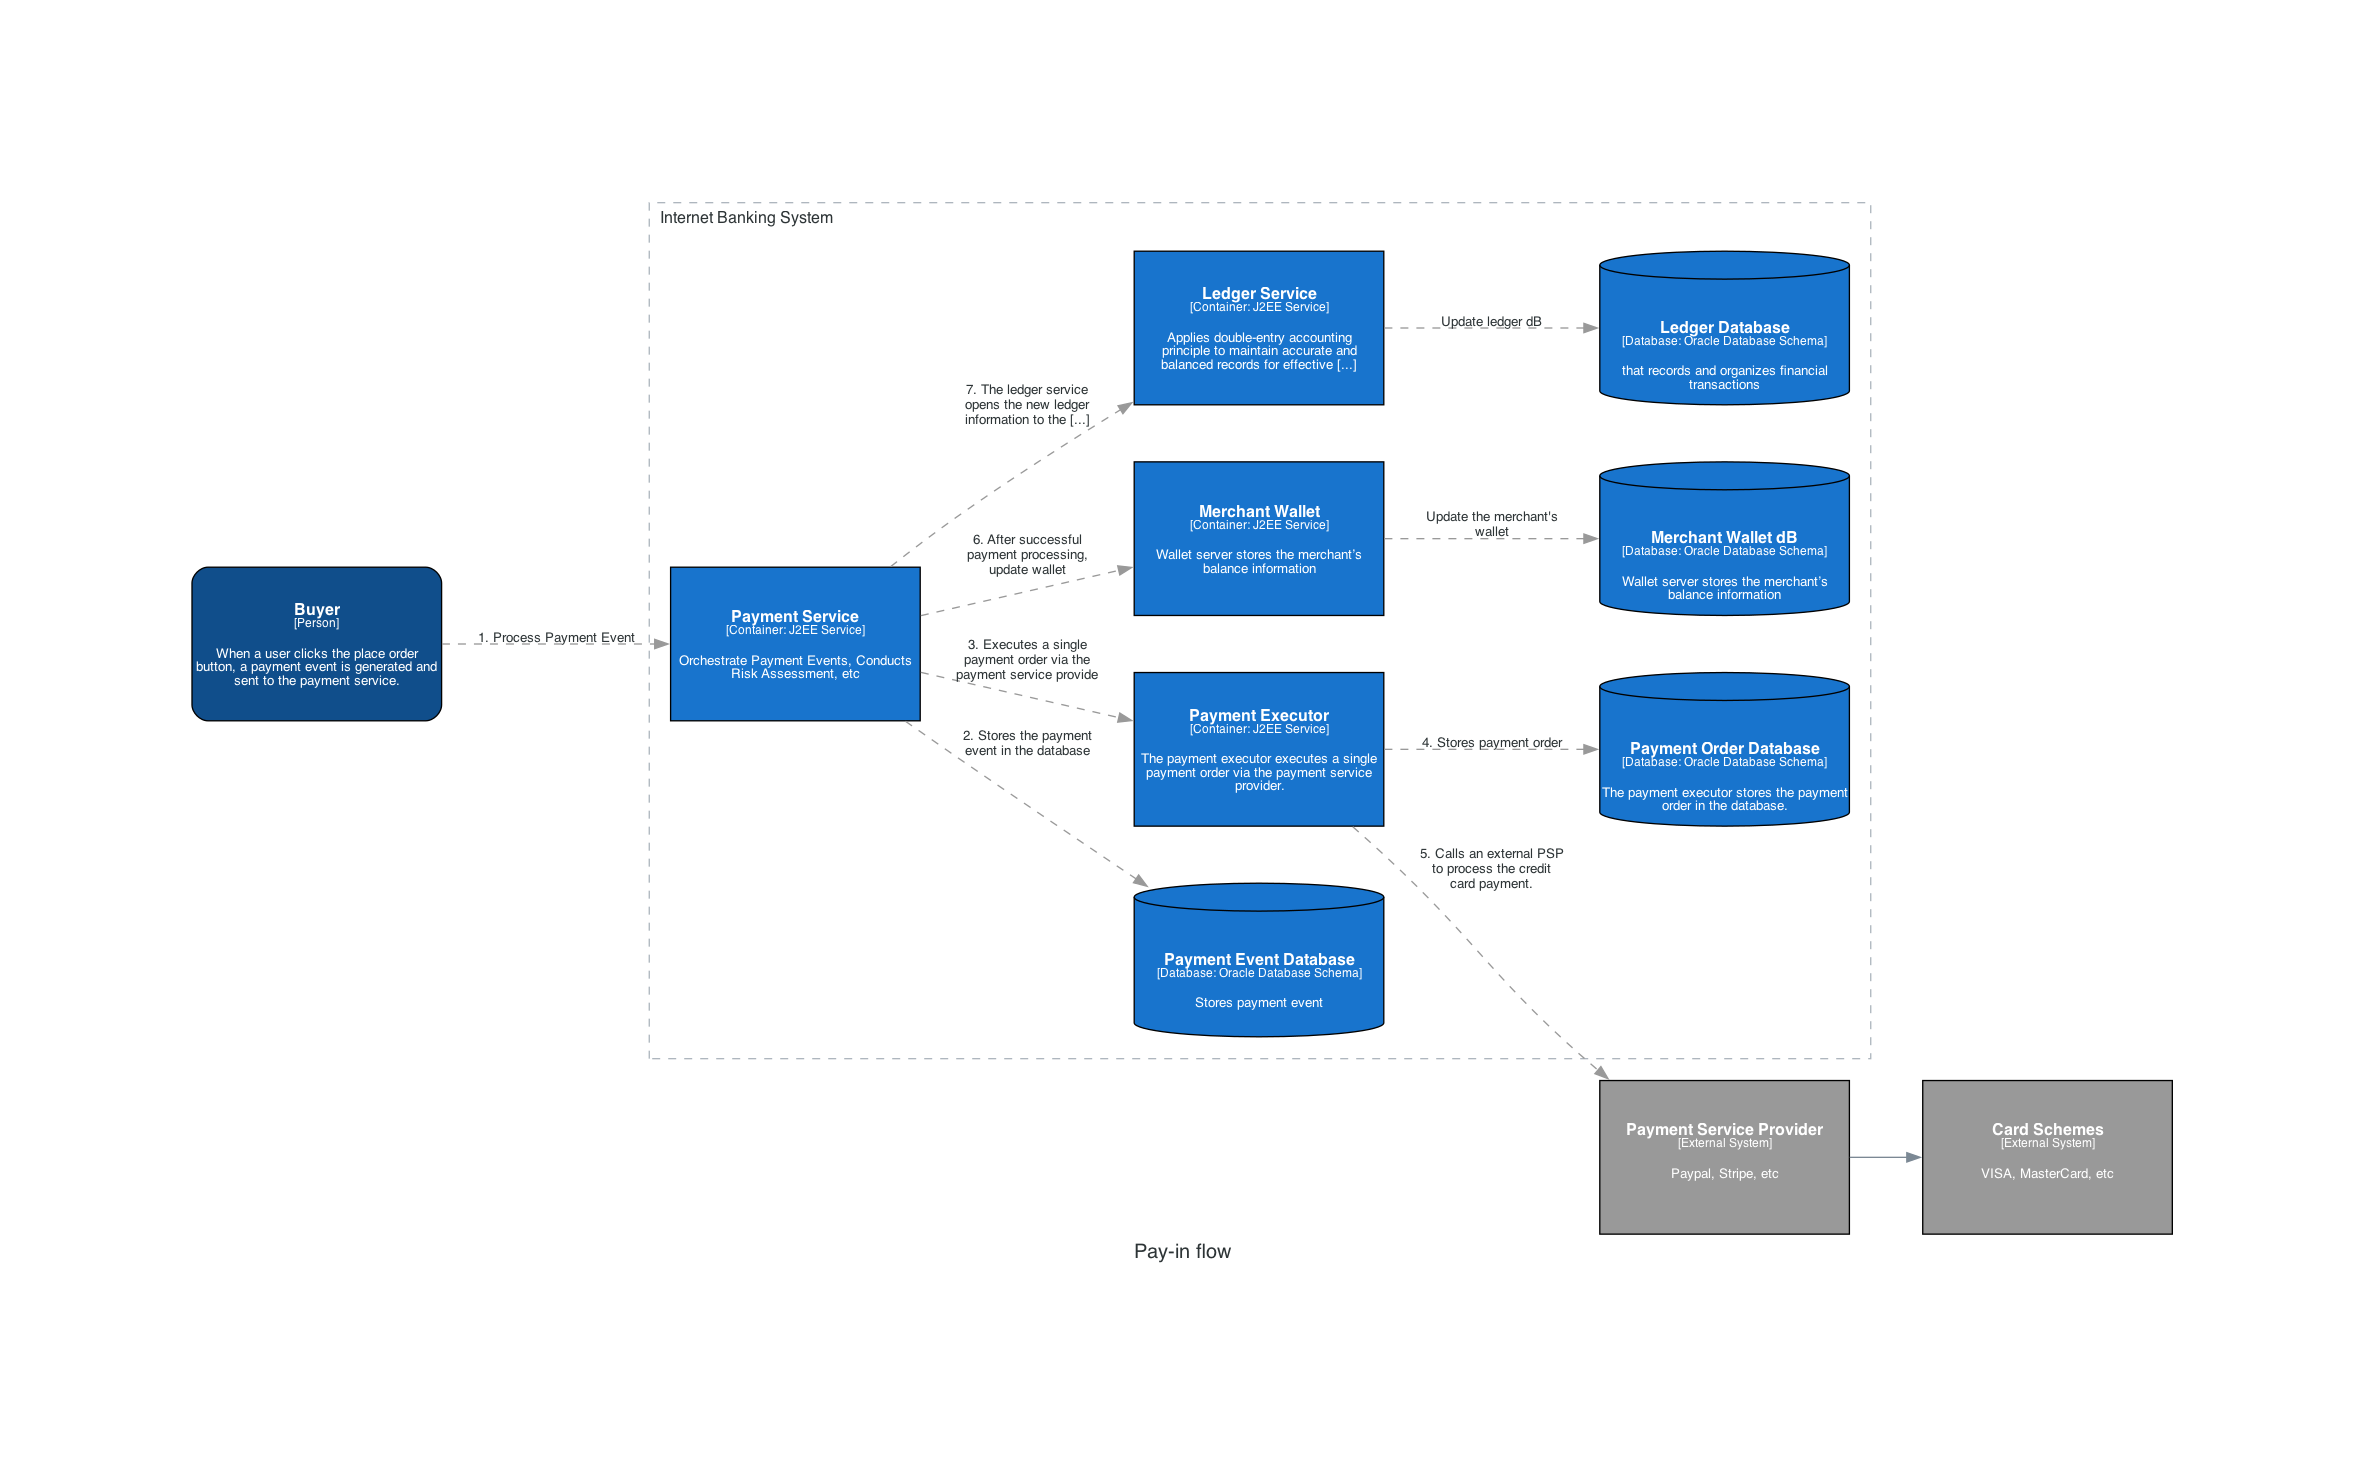
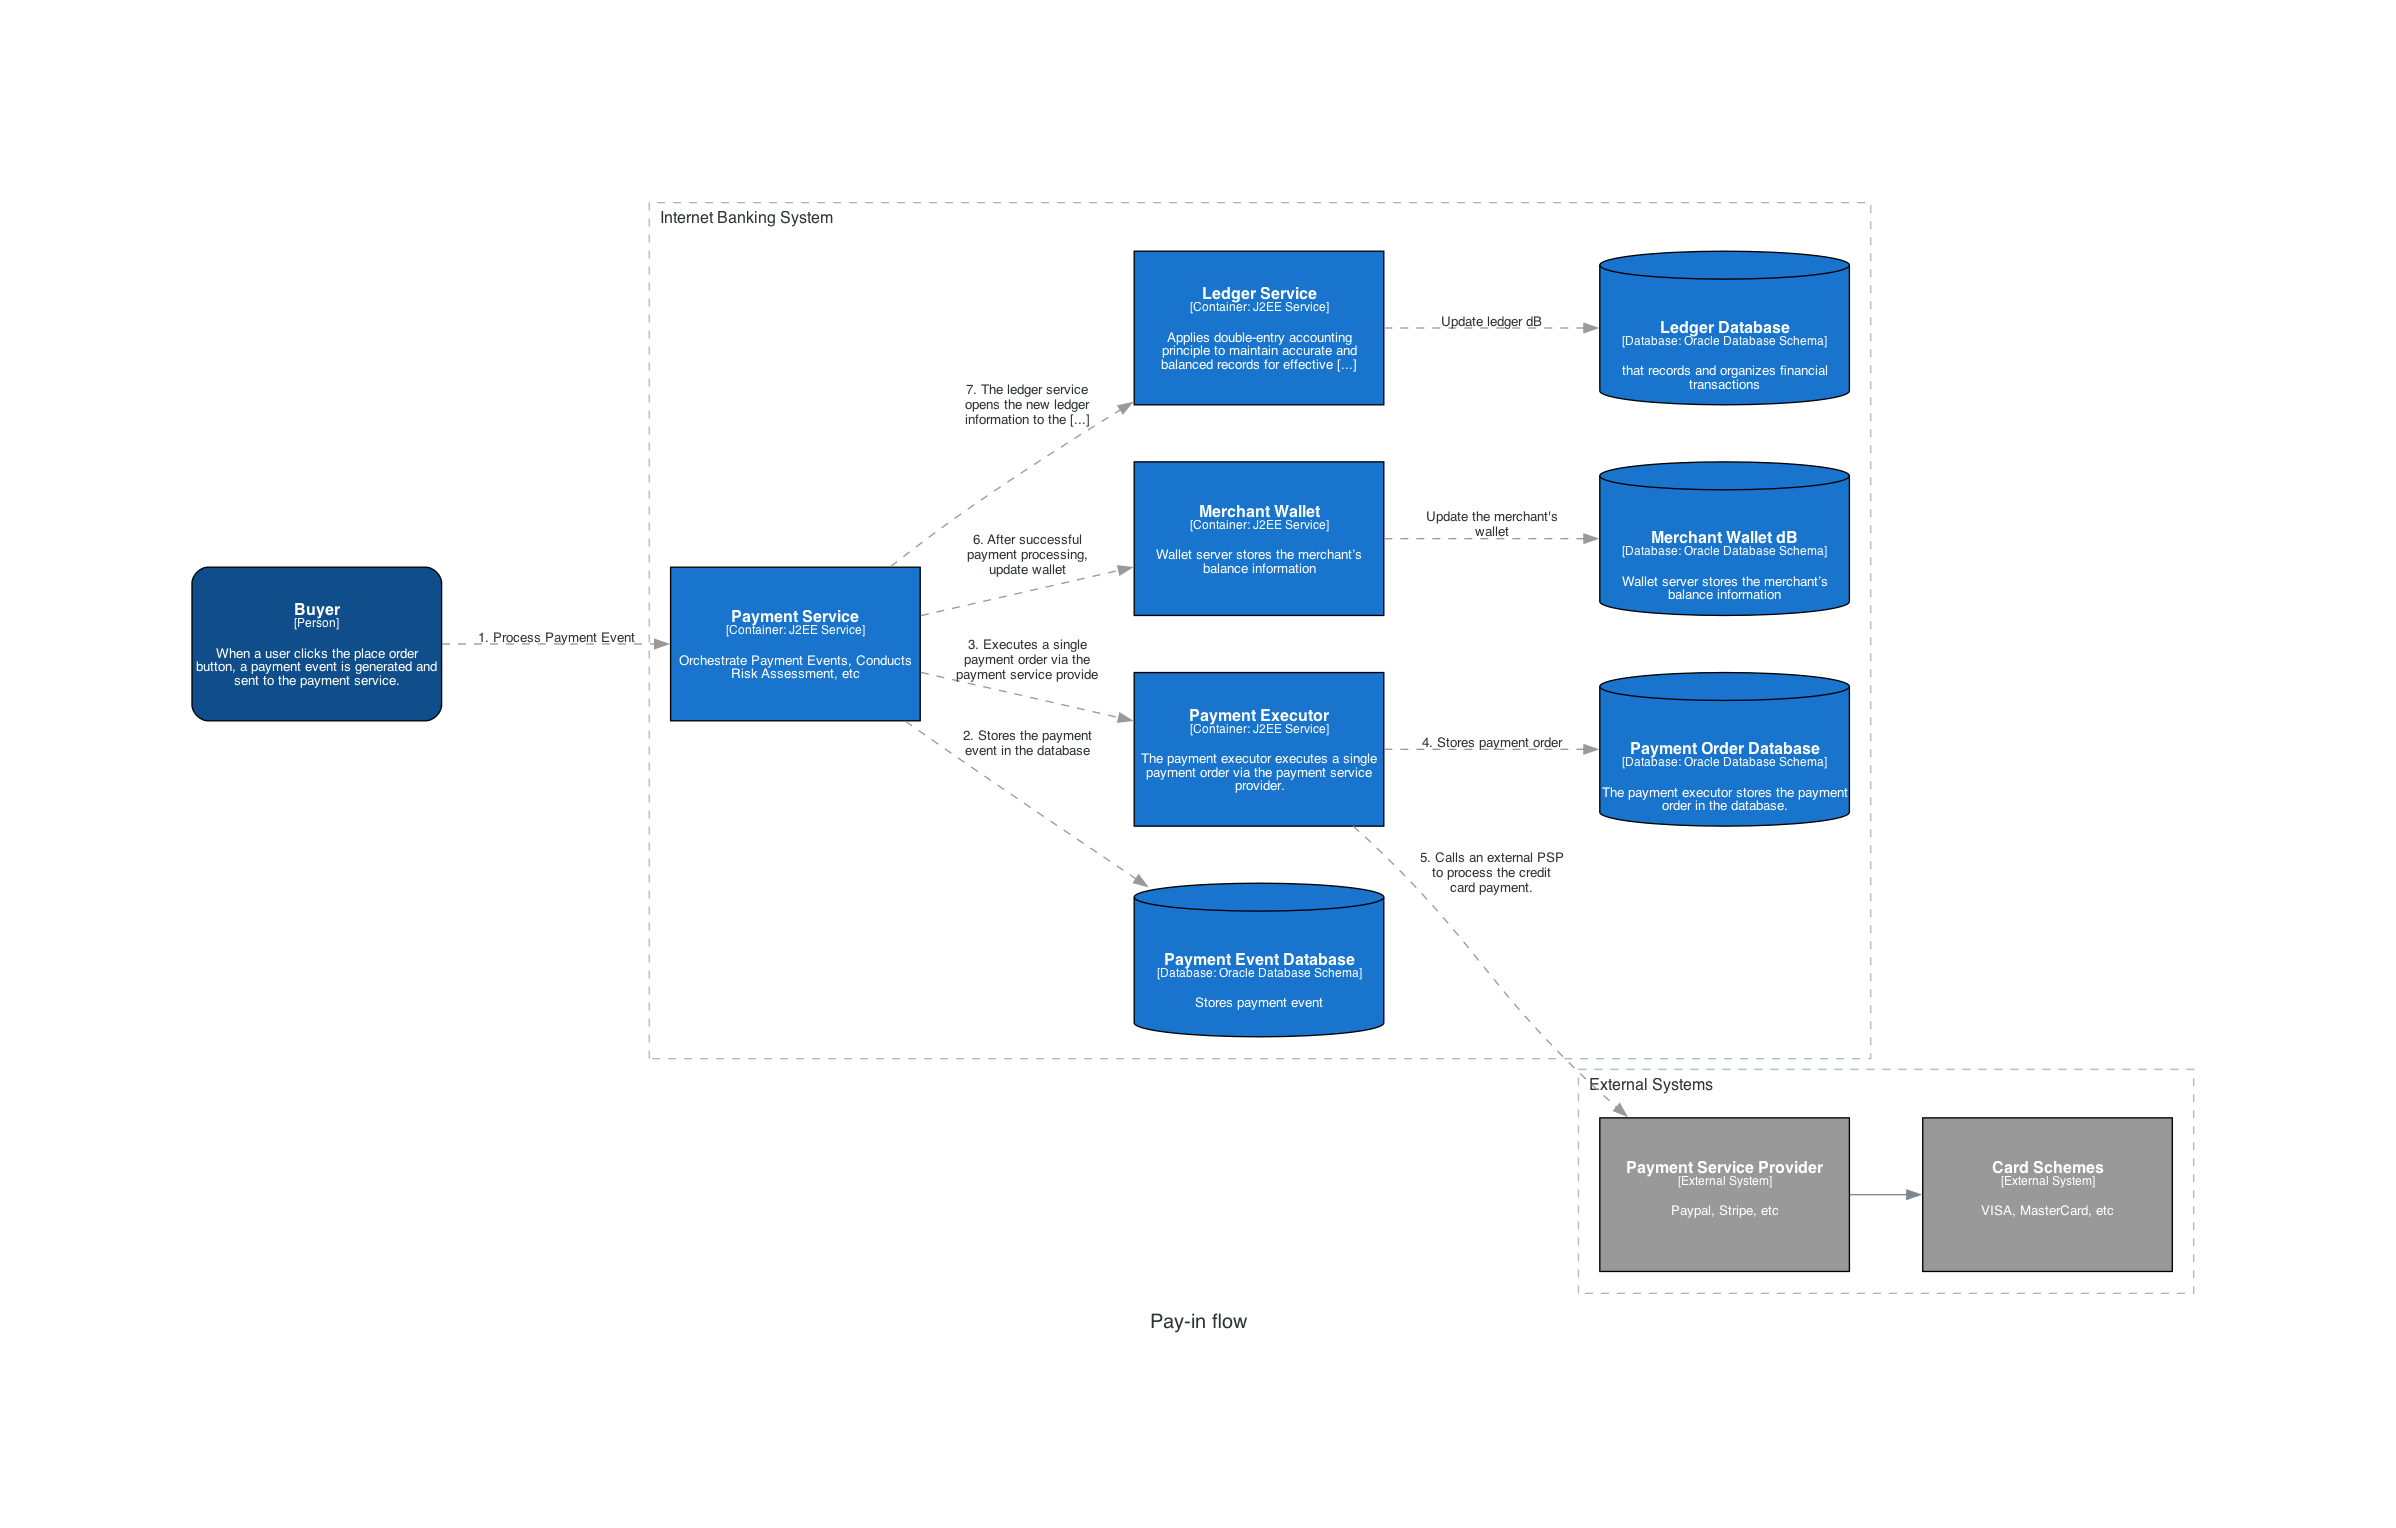
Your commit message here

diff --git a/designPaymentSystem/pay_in_flow_withhostedPSP.py b/designPaymentSystem/pay_in_flow_withhostedPSP.py
@@ -1,0 +1,66 @@
+from diagrams import Diagram
+from diagrams.c4 import Person, Container, Database, System, SystemBoundary, Relationship
+
+graph_attr = {
+    "fontsize": "24",
+    #"bgcolor": "transparent",
+    "constraint":"False",
+    "splines":"spline",
+}
+
+edge_attr = {
+    "splines":"spline",
+    "concentrate":"True"
+}
+
+with Diagram("\n\nPay-in flow with hosted PSP", show=True, direction="LR", graph_attr=graph_attr) as diag:
+#with Diagram("\n\nPay-in flow with hosted PSP", show=True, direction="LR", graph_attr=graph_attr, edge_attr=edge_attr, ) as diag:
+#with Diagram("\n\nPay-in flow with hosted PSP", show=True, direction="LR") as diag:
+
+    checkout_page = Container(
+        name="Checkout Page",
+        technology = "UI App",
+        description="User clicks the checkout button in the client browser.",
+        bgColor="Green"
+    )
+
+    payment_page = Container(
+        name="Payment Page",
+        technology = "UI App",
+        description=""
+    )
+
+    payment_complete_page = Container(
+        name="Payment Complete Page",
+        technology = "UI App",
+        description=""
+    )
+
+    payment_service = System(
+        name="Payment Service",
+        description="",
+    )
+
+    database_token = Database(
+        name="Token Database",
+        technology="Oracle Database Schema",
+        description="Stores token",
+    )
+
+    psp = System(
+        name="PSP",
+        description="",
+    )
+
+    checkout_page >> Relationship("1. Payment order sent") >> payment_service
+    payment_service >> Relationship("2. Sends payment registration request with NONCE") >> psp
+
+    psp >> Relationship("3. Return payment token") >> payment_service
+    payment_service >> Relationship("4. Stores payment token") >> database_token
+
+    payment_service >> Relationship("5. Display PSP's Payment page with token & redirectURL") >> payment_page
+    payment_page >> Relationship("6. Start Payment") >> psp
+    psp >> Relationship("7. Payment result") >> payment_page
+
+    payment_page >> Relationship("8. Redirect to completion Page") >> payment_complete_page
+    psp >> Relationship("9. Webhook with completion result") >> payment_service

diff --git a/designPaymentSystem/pay_in_flow.py b/designPaymentSystem/pay_in_flow.py
@@ -59,19 +59,18 @@ with Diagram("Pay-in flow", direction="LR", graph_attr=graph_attr):
             description="that records and organizes financial transactions",
         )
 
+    with SystemBoundary("External Systems"):
+        payment_service_provider = System(
+            name="Payment Service Provider",
+            description="Paypal, Stripe, etc",
+            external=True
+        )
 
-
-    payment_service_provider = System(
-        name="Payment Service Provider",
-        description="Paypal, Stripe, etc",
-        external=True
-    )
-
-    card_schemes = System(
-        name="Card Schemes",
-        description="VISA, MasterCard, etc",
-        external=True
-    )
+        card_schemes = System(
+            name="Card Schemes",
+            description="VISA, MasterCard, etc",
+            external=True
+        )
 
     customer >> Relationship("1. Process Payment Event") >> payment_service
     payment_service >> Relationship("2. Stores the payment event in the database") >> database
